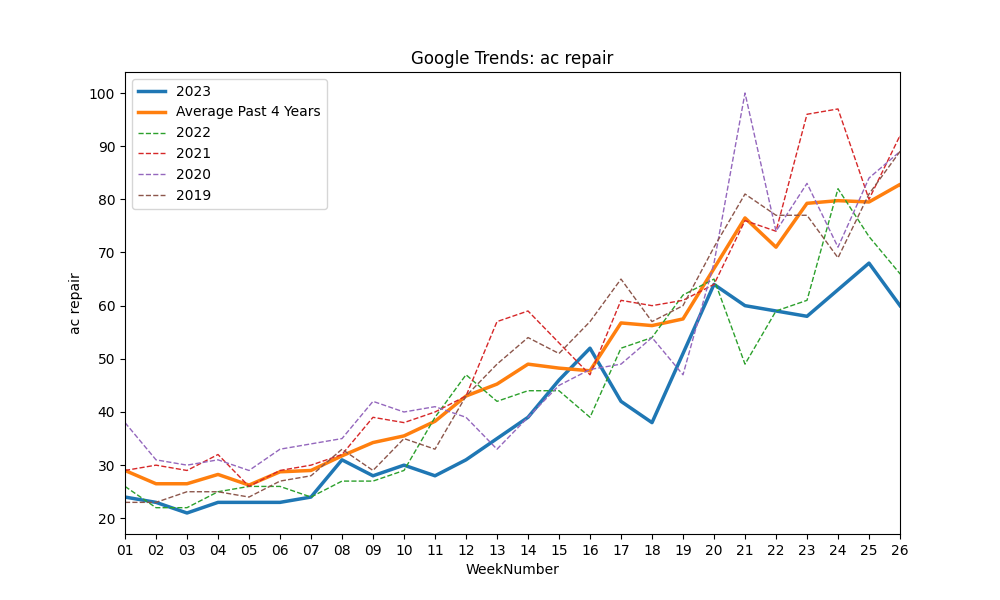
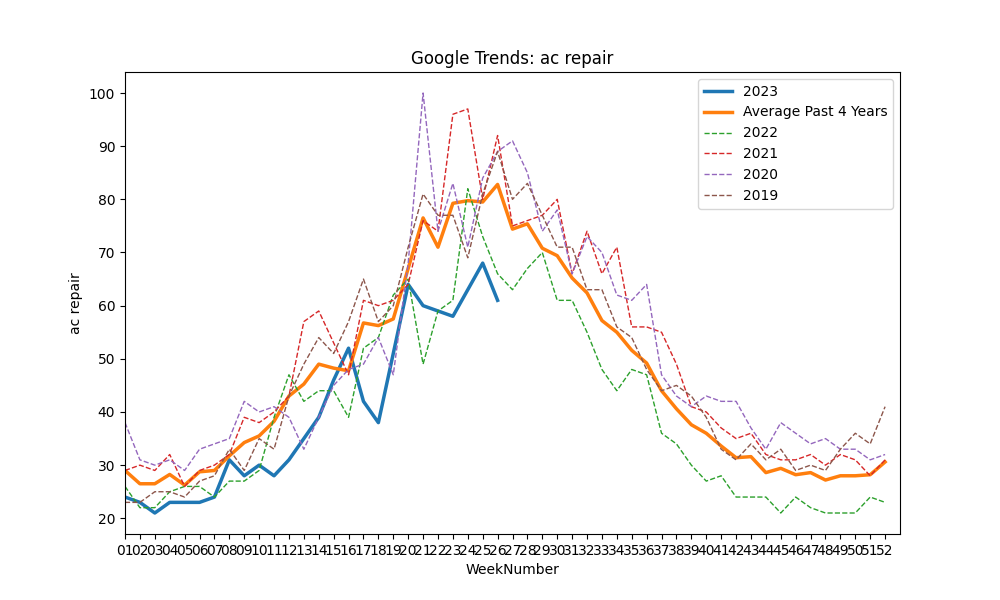
full charts

diff --git a/gtrends.py b/gtrends.py
@@ -34,7 +34,7 @@ def generate_chart(keyword_in):
     plt.xlabel('WeekNumber')
     plt.ylabel(keyword)
     plt.title('Google Trends: '+ keyword)
-    plt.xlim(0, max_week_current) # Set the x-axis limit based on the maximum WeekNumber for 2023
+    plt.xlim(0, 52) # Set the x-axis limit based on the maximum WeekNumber for 2023 max_week_current
     plt.legend()
     plt.savefig('static/chart.png')  # Save the chart as an image file
     plt.close()
@@ -57,10 +57,10 @@ def generate_chart(keyword_in):
     plt.xlabel('WeekNumber')
     plt.ylabel(keyword)
     plt.title('Google Trends: '+ keyword)
-    plt.xlim(0, max_week_current) # Set the x-axis limit based on the maximum WeekNumber for 2023
+    plt.xlim(0, 52) # Set the x-axis limit based on the maximum WeekNumber for 2023
     plt.legend()
     plt.savefig('static/chart2.png')  # Save the chart as an image file
     plt.close()
 
 # FOR TEST:
-#generate_chart('ac repair')
+generate_chart('ac repair')
